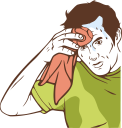
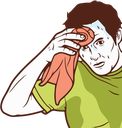
New emojis

diff --git a/README.md b/README.md
@@ -1,5 +1,5 @@
 # fave-slackmojis
-My favorite emojis to use in a Slack setting, saved here to make sure I can access them in future Slacks. Now with 223 emojis!
+My favorite emojis to use in a Slack setting, saved here to make sure I can access them in future Slacks. Now with 225 emojis!
 
 This README was generated using `./generate-readme.sh`
 | Emoji preview | Emoji name |
@@ -10,6 +10,7 @@ This README was generated using `./generate-readme.sh`
 | <img src='./emojis/all-good.png'/> | all-good.png |
 | <img src='./emojis/all-seeing-eye-sauron.jpg'/> | all-seeing-eye-sauron.jpg |
 | <img src='./emojis/always-has-been.png'/> | always-has-been.png |
+| <img src='./emojis/amaze-amaze-amaze-rocky.png'/> | amaze-amaze-amaze-rocky.png |
 | <img src='./emojis/angry-cat.png'/> | angry-cat.png |
 | <img src='./emojis/athur-fist.png'/> | athur-fist.png |
 | <img src='./emojis/autobots-rollout.gif'/> | autobots-rollout.gif |
@@ -27,6 +28,7 @@ This README was generated using `./generate-readme.sh`
 | <img src='./emojis/blob-oh-no.png'/> | blob-oh-no.png |
 | <img src='./emojis/bow-out.gif'/> | bow-out.gif |
 | <img src='./emojis/breathing-cat-intensifies.gif'/> | breathing-cat-intensifies.gif |
+| <img src='./emojis/breathing-heavy-cat.png'/> | breathing-heavy-cat.png |
 | <img src='./emojis/bug-cat-slap.gif'/> | bug-cat-slap.gif |
 | <img src='./emojis/cackle-intensifies.gif'/> | cackle-intensifies.gif |
 | <img src='./emojis/cat-jam.gif'/> | cat-jam.gif |
